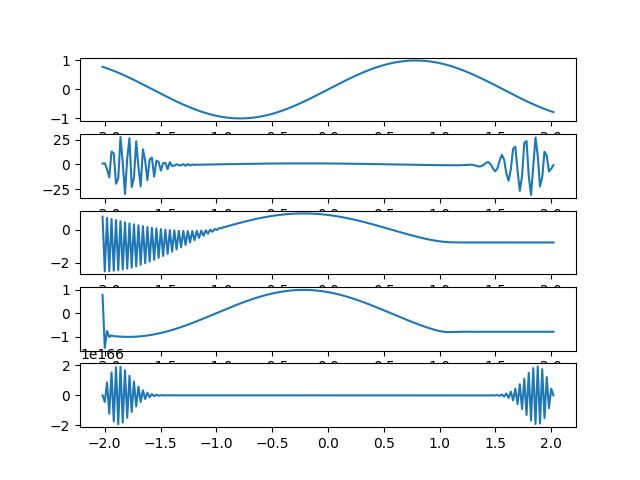
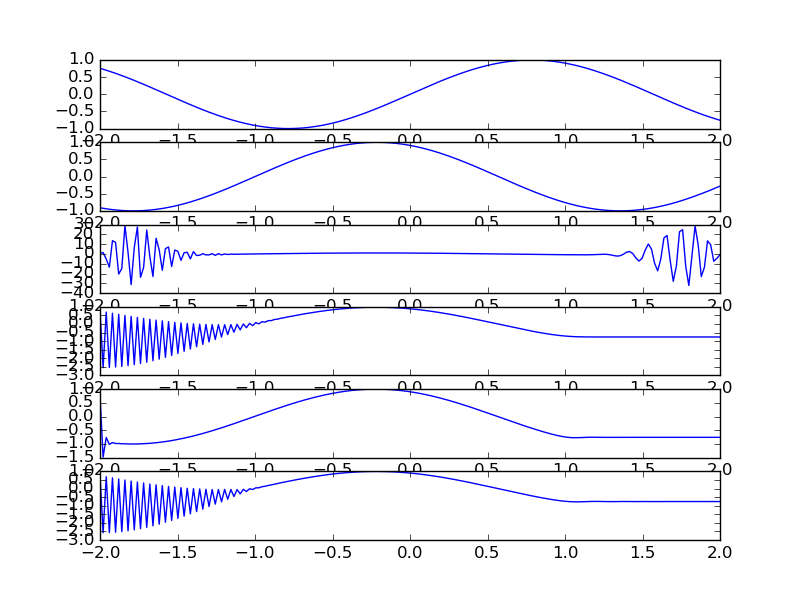
found crank-nicholson mistake

Changed region(s): [[0.0625, 0.0938, 0.9375, 0.9375]]

diff --git a/Lab3/time_pde/advection.py b/Lab3/time_pde/advection.py
@@ -1,4 +1,5 @@
 # 1.3.1 Advection equation
+import logging
 import matplotlib.pyplot as plt
 import numpy as np
 
@@ -64,7 +65,7 @@ def backward_euler_1D(x, r, eps=1e-4):
     guess[:1] = x[:1]
     guess[-1:] = x[-1:]
 
-    current = x
+    current = np.copy(x)
 
     while np.max(np.abs(guess - current)) > eps:
         current = np.copy(guess)
@@ -74,7 +75,7 @@ def backward_euler_1D(x, r, eps=1e-4):
 
 def lax_wendroff_1D(x, dx, r):
     """Computes the next time iteration using the explicit Lax-Wendroff
-    mathod to compute the spatial derivatives.
+    method to compute the spatial derivatives.
 
     Parameters
     ------------
@@ -86,27 +87,29 @@ def lax_wendroff_1D(x, dx, r):
     ---------
     An array with the updated values of x.
     """
-    xh = 0.5 * (x[:-1] + x[1:]) + 0.5 * r * (x[1:] - x[:-1])
+    diff1 = x[2:] - x[:-2]
+    diff2 = x[2:] - 2 * x[1:-1] + x[:-2]
 
-    xw = np.copy(x)
-    xw[1:-1] = x[1:-1] + r * (xh[1:] - xh[:-1])
+    lw = np.copy(x)
+    lw[1:-1] = x[1:-1] + 0.5 * r * diff1 + 0.5 * r**2 * diff2
 
-    return xw
+    return lw
 
 def crank_nicholson_1D(x, dx, r, eps=1e-4):
+    print('computing crank-nicholson')
     guess = np.zeros(x.size)
     guess[:1] = x[:1]
     guess[-1:] = x[-1:]
 
-    current = x
+    current = np.copy(x)
 
-    forward = x[2:] - 2 * x[1:-1] + x[:-2]
+    forward = x[2:] - x[:-2]
 
     while np.max(np.abs(guess - current)) > eps:
         current = np.copy(guess)
 
-        backward = current[2:] - 2 * current[1:-1] + current[:-2]
-        guess[1:-1] = x[1:-1] + 0.5 * r * (forward + backward) / dx
+        backward = current[2:] - current[:-2]
+        guess[1:-1] = x[1:-1] + 0.25 * r * (forward + backward)
 
     return guess
 
@@ -164,16 +167,16 @@ def main():
         exact_1 = np.sin(2 * x_ct)
         exact_2 = 1.0 * (x_ct >= 0.0)
         exact_3 = np.zeros(x_ct.size)
-        exact_3[int(x_ct.size / 2)] = 1.0 / dx
+        exact_3[int(x_ct.size / 4)] = 1.0 / dx
         exact_4 = np.exp(- 4.0 * x_ct**2)
         exacts = np.array([exact_1, exact_2, exact_3, exact_4])
 
         for case_num, (case, exact) in enumerate(zip(cases, exacts)):
             # Create different steppers
-            fw = Advection1D(case, c, dx, dt, r, ghost_size=1)
-            bw = Advection1D(case, c, dx, dt, r, ghost_size=1)
-            lw = Advection1D(case, c, dx, dt, r, ghost_size=1)
-            cn = Advection1D(case, c, dx, dt, r, ghost_size=1)
+            fw = Advection1D(case, c, dx, dt, r)
+            bw = Advection1D(case, c, dx, dt, r)
+            lw = Advection1D(case, c, dx, dt, r)
+            cn = Advection1D(case, c, dx, dt, r)
 
             # Solve each case
             for t in ts:
@@ -183,7 +186,7 @@ def main():
                 cn.step('crank_nicholson')
 
             plt.clf()
-            fig, subs = plt.subplots(nrows=5)
+            fig, subs = plt.subplots(nrows=6)
             subs[0].plot(x, case)
             subs[1].plot(x, exact)
             subs[2].plot(x, fw.current_state)

diff --git a/Lab3/time_pde/advection_diffusion.py b/Lab3/time_pde/advection_diffusion.py
@@ -3,25 +3,6 @@ import matplotlib.pyplot as plt
 import numpy as np
 
 
-def gaussian(x, mu, sigma):
-    """Computes the normalized Gaussian or normal distribution about the
-    mean mu with variance sigma.
-    
-    Parameters
-    ------------
-    x     : (np.array) the input values.
-    mu    : (float)    the mean.
-    sigma : (float)    the variance, or square root of the standard
-                       deviation.
-    
-    Returns
-    ---------
-    An array with the output values.
-    """
-    N = np.sqrt(2.0 * np.pi * sigma**2)
-    return 1.0 / N * np.exp(- (x - mu)**2 / (2 * sigma**2))
-
-
 class AdvectionDiffusion1D:
     def __init__(self, initial_state, r, s):
         self.current_state = np.array(initial_state)
@@ -43,10 +24,10 @@ class AdvectionDiffusion1D:
         ---------
         An array with the updated values.
         """
+        print('computing')
         current = np.copy(self.current_state)
         
-        diff2 = np.zeros(current.size)
-        diff2[1:-1] = current[2:] + 2 * current[1:-1] + current[:-2]
+        diff2 = current[2:] + 2 * current[1:-1] + current[:-2]
 
         guess = np.zeros(current.size)
         guess[:1] = current[:1]
@@ -57,7 +38,7 @@ class AdvectionDiffusion1D:
 
             backward = guess[2:] - guess[:-2]
             guess[1:-1] = self.current_state[1:-1] \
-                + self.s * diff2[1:-1]             \
+                + self.s * diff2 \
                 - 0.5 * self.r * backward
 
         self.current_state = guess
@@ -69,18 +50,16 @@ def main():
     # Set constants
     c = 0.5
     beta = 0.1
-    x = np.linspace(0, 60, 101)
+    x = np.linspace(0, 1, 101)
     dx = x[1] - x[0]
     dt = 0.9 * dx**2 / (c * dx + 2 * beta)
-    ts = np.arange(0, 57) * dt
+    ts = np.linspace(0, 57, int(1.0 / dt))
     
     r = c * dt / dx
     s = beta * dt / dx**2
 
     # Initial conditions
-    mean = 3.0
-    std_dev = 12.0
-    u_0 = gaussian(x, mean, std_dev)
+    u_0 = np.sin(np.pi * x)
 
     # Boundary coniditions
     u_0[0] = 0.0
@@ -90,7 +69,6 @@ def main():
     ad = AdvectionDiffusion1D(u_0, r, s)
     for t in ts:
         ad.step()
-        break
 
     # Plot the solution
     plt.plot(x, u_0, label='$t=0$s')
